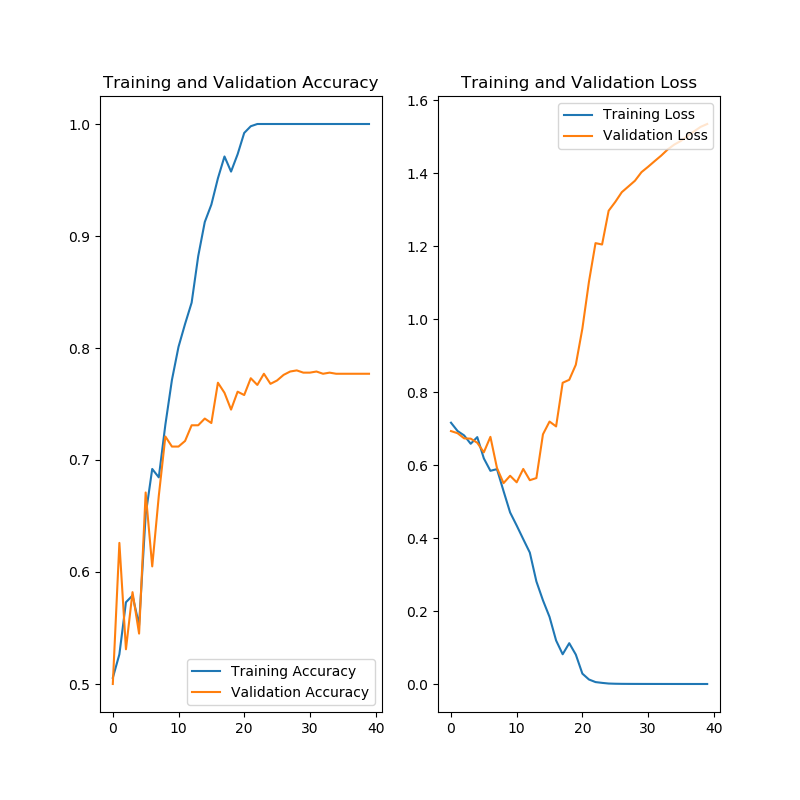
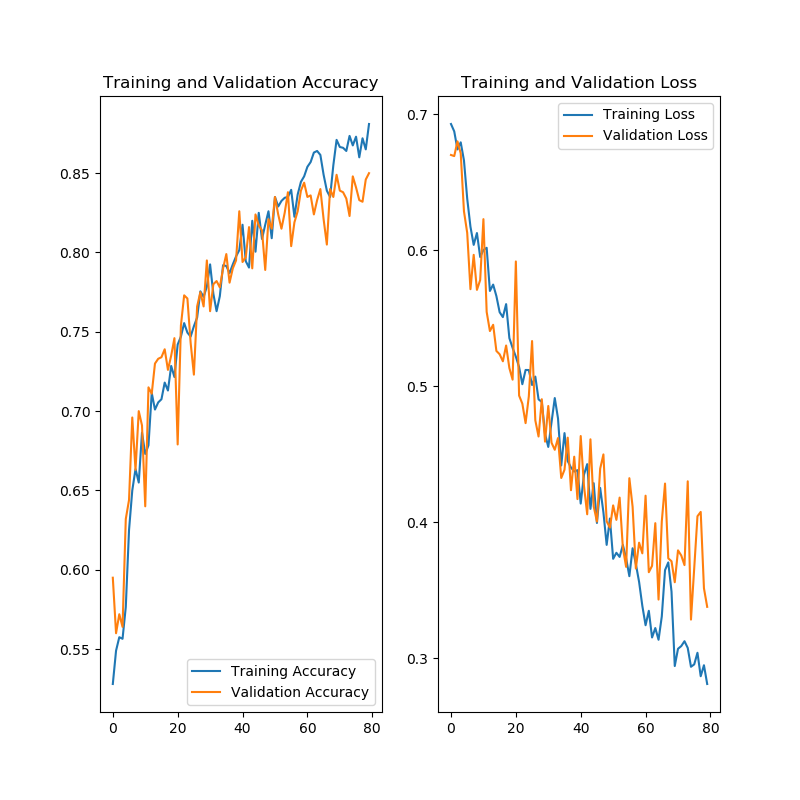
Commit #2 Added cvdV2(improved recognition using CNN)

diff --git a/cvdV2.py b/cvdV2.py
@@ -1,0 +1,172 @@
+# preallocation
+
+import os
+import matplotlib.pyplot as plt
+import numpy as np
+
+import tensorflow as tf
+from tensorflow.keras.preprocessing.image import ImageDataGenerator
+
+import logging
+logger = tf.get_logger()
+logger.setLevel(logging.ERROR)
+
+_URL = 'https://storage.googleapis.com/mledu-datasets/cats_and_dogs_filtered.zip'
+zip_dir = tf.keras.utils.get_file('cats_and_dogs_filterted.zip', origin=_URL, extract=True)
+
+zip_dir_base = os.path.dirname(zip_dir)
+
+base_dir = os.path.join(os.path.dirname(zip_dir), 'cats_and_dogs_filtered')
+train_dir = os.path.join(base_dir, 'train')
+validation_dir = os.path.join(base_dir, 'validation')
+
+train_cats_dir = os.path.join(train_dir, 'cats')  # directory with our training cat pictures
+train_dogs_dir = os.path.join(train_dir, 'dogs')  # directory with our training dog pictures
+validation_cats_dir = os.path.join(validation_dir, 'cats')  # directory with our validation cat pictures
+validation_dogs_dir = os.path.join(validation_dir, 'dogs')  # directory with our validation dog pictures
+
+# read number of input images
+num_cats_tr = len(os.listdir(train_cats_dir))
+num_dogs_tr = len(os.listdir(train_dogs_dir))
+
+num_cats_val = len(os.listdir(validation_cats_dir))
+num_dogs_val = len(os.listdir(validation_dogs_dir))
+
+total_train = num_cats_tr + num_dogs_tr
+total_val = num_cats_val + num_dogs_val
+
+# print('total training cat images:', num_cats_tr)
+# print('total training dog images:', num_dogs_tr)
+#
+# print('total validation cat images:', num_cats_val)
+# print('total validation dog images:', num_dogs_val)
+# print("--")
+# print("Total training images:", total_train)
+# print("Total validation images:", total_val)
+
+
+# Model Parameters
+BATCH_SIZE = 100
+IMG_SHAPE = 150
+
+# Data Augmentation
+# This function will plot images in the form of a grid with 1 row and 5 columns where images are placed in each column.
+def plotImages(images_arr):
+    fig, axes = plt.subplots(1, 5, figsize=(20,20))
+    axes = axes.flatten()
+    for img, ax in zip( images_arr, axes):
+        ax.imshow(img)
+    plt.tight_layout()
+    plt.show()
+
+# horizontal image flip
+
+image_gen = ImageDataGenerator(rescale=1./255, horizontal_flip=True)
+train_data_gen = image_gen.flow_from_directory(batch_size=BATCH_SIZE,
+                                                directory=train_dir,
+                                                shuffle=True,
+                                                target_size=(IMG_SHAPE, IMG_SHAPE))
+
+# # plot augmented_images
+# augmented_images = [train_data_gen[0][0][0] for i in range(5)]
+# plotImages(augmented_images)
+
+# image rotation
+image_gen = ImageDataGenerator(rescale=1./255, rotation_range=45)
+train_data_gen = image_gen.flow_from_directory(batch_size=BATCH_SIZE,
+                                                directory=train_dir,
+                                                shuffle=True,
+                                                target_size=(IMG_SHAPE, IMG_SHAPE))
+
+# random zoom
+image_gen = ImageDataGenerator(rescale=1./255, zoom_range=0.5)
+train_data_gen = image_gen.flow_from_directory(batch_size=BATCH_SIZE,
+                                                directory=train_dir,
+                                                shuffle=True,
+                                                target_size=(IMG_SHAPE, IMG_SHAPE))
+
+# all in one modification
+image_gen_train = ImageDataGenerator(rescale=1./255,
+                                      rotation_range=40,
+                                      width_shift_range=0.2,
+                                      height_shift_range=0.2,
+                                      shear_range=0.2,
+                                      zoom_range=0.2,
+                                      horizontal_flip=True,
+                                      fill_mode='nearest')
+
+train_data_gen = image_gen_train.flow_from_directory(batch_size=BATCH_SIZE,
+                                                     directory=train_dir,
+                                                     shuffle=True,
+                                                     target_size=(IMG_SHAPE,IMG_SHAPE),
+                                                     class_mode='binary')
+
+image_gen_val = ImageDataGenerator(rescale=1./255)
+
+val_data_gen = image_gen_val.flow_from_directory(batch_size=BATCH_SIZE,
+                                                 directory=validation_dir,
+                                                 target_size=(IMG_SHAPE, IMG_SHAPE),
+                                                 class_mode='binary')
+
+
+
+# Create Model with dropout
+# 4 layers of convolution and maxpooling then 512 neurons in connected layer
+model = tf.keras.models.Sequential([
+    tf.keras.layers.Conv2D(32, (3,3), activation='relu', input_shape=(150, 150, 3)),
+    tf.keras.layers.MaxPooling2D(2, 2),
+
+    tf.keras.layers.Conv2D(64, (3,3), activation='relu'),
+    tf.keras.layers.MaxPooling2D(2,2),
+
+    tf.keras.layers.Conv2D(128, (3,3), activation='relu'),
+    tf.keras.layers.MaxPooling2D(2,2),
+
+    tf.keras.layers.Conv2D(128, (3,3), activation='relu'),
+    tf.keras.layers.MaxPooling2D(2,2),
+
+    tf.keras.layers.Dropout(0.5),
+    tf.keras.layers.Flatten(),
+    tf.keras.layers.Dense(512, activation='relu'),
+    tf.keras.layers.Dense(2, activation='softmax')
+])
+
+# Compile model
+model.compile(optimizer='adam',
+              loss='sparse_categorical_crossentropy',
+              metrics=['accuracy'])
+
+# model.summary()
+
+# Train model
+EPOCHS = 80
+history = model.fit_generator(
+    train_data_gen,
+    steps_per_epoch=int(np.ceil(total_train/float(BATCH_SIZE))),
+    epochs=EPOCHS,
+    validation_data=val_data_gen,
+    validation_steps=int(np.ceil(total_val/float(BATCH_SIZE)))
+)
+
+acc = history.history['acc']
+val_acc = history.history['val_acc']
+
+loss = history.history['loss']
+val_loss = history.history['val_loss']
+
+epochs_range = range(EPOCHS)
+
+plt.figure(figsize=(8, 8))
+plt.subplot(1, 2, 1)
+plt.plot(epochs_range, acc, label='Training Accuracy')
+plt.plot(epochs_range, val_acc, label='Validation Accuracy')
+plt.legend(loc='lower right')
+plt.title('Training and Validation Accuracy')
+
+plt.subplot(1, 2, 2)
+plt.plot(epochs_range, loss, label='Training Loss')
+plt.plot(epochs_range, val_loss, label='Validation Loss')
+plt.legend(loc='upper right')
+plt.title('Training and Validation Loss')
+plt.savefig('./foo.png')
+plt.show()
